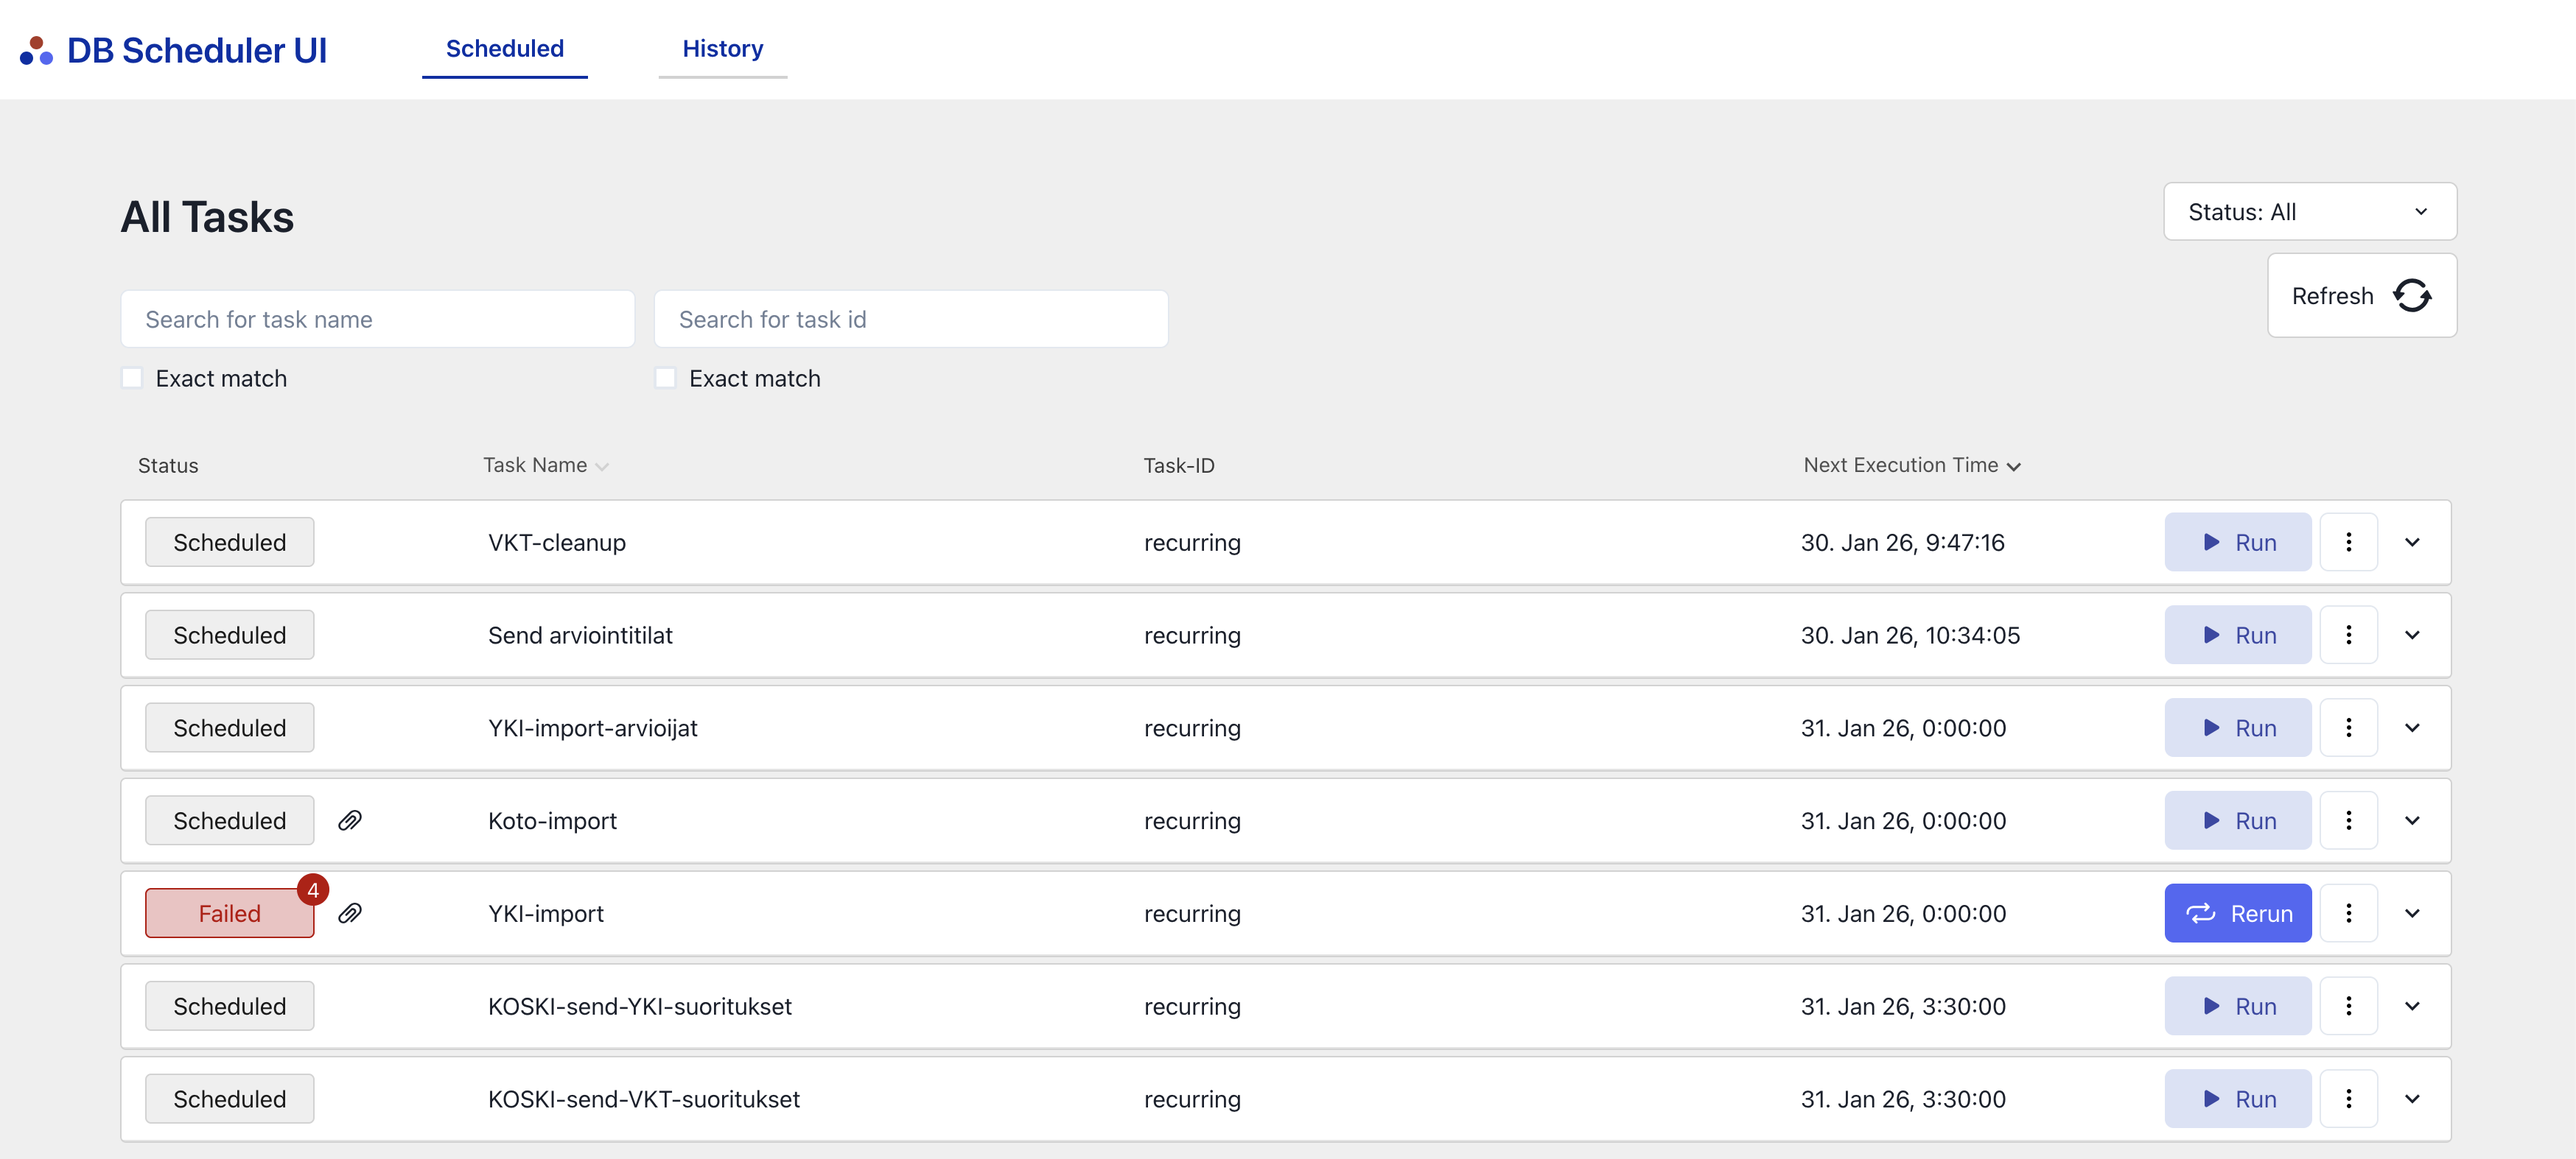
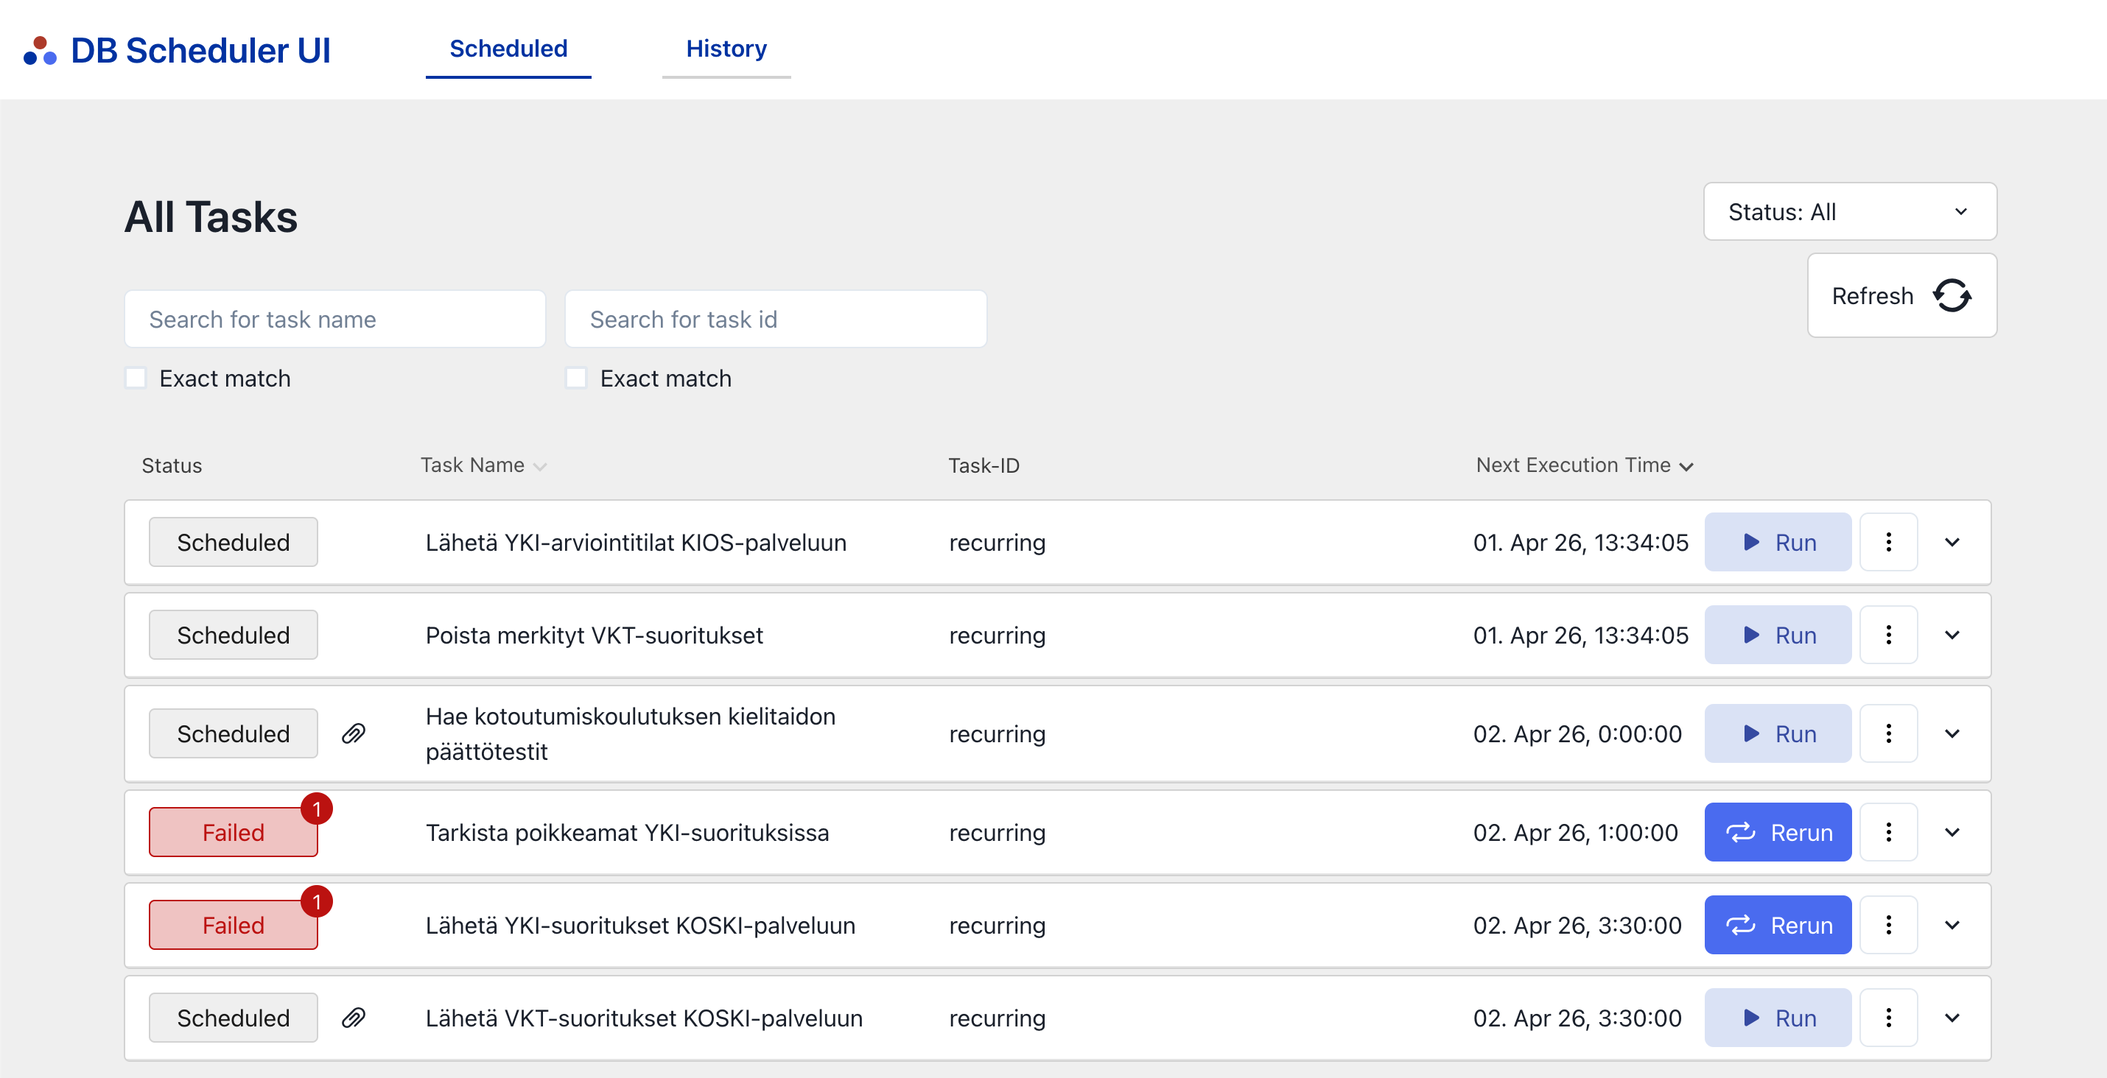
Päivitä db-scheduler-dokumentaatio

diff --git a/docs/db-scheduler/README.md b/docs/db-scheduler/README.md
@@ -15,37 +15,33 @@ Eräajot voi käynnistää myös manuaalisesti ja niiden ajohistoriaa tarkastell
 
 ## Yleinen kielitutkinto
 
-### KOSKI-send-YKI-suoritukset
+### Lähetä YKI-suoritukset KOSKI-palveluun
 
 Lähettää KOSKI-järjestelmään ne yleisen kielitutkinnon suoritukset, joita ei ole aiemmin siirretty onnistuneesti.
 
-### Send arviointitilat
+### Lähetä YKI-arviointitilat KIOS-palveluun
 
 Lähettää ilmoittautumisjärjestelmään (KIOS) sellaiset yleisen kielitutkinnon arviointitilat, joita ei aiemmin ole
 saatu siirrettyä (esim. verkko- tai palvelinvian takia). Tavallisesti arviointitila lähetetään jo siinä yhteydessä
 kun Solki-järjestelmästä saadaan uutta dataa. Tämän ajon tarkoitus on varmistaa tiedon perille pääsy.
 
-### YKI-import
-
-**Poistumassa käytöstä.** Hakee yleisen kielitutkinnon suoritukset Solki-järjestelmästä ja tallentaa ne Kielitutkintorekisteriin.
-
-### YKI-import-arvioijat
-
-**Poistuu käytöstä.** Hakee yleisen kielitutkinnon arvioijat Solki-järjestelmästä ja tallentaa ne Kielitutkintorekisteriin.
-
 ## Valtionhallinnon kielitutkinnot
 
-### KOSKI-send-VKT-suoritukset
+### Lähetä VKT-suoritukset KOSKI-palveluun
 
 Lähettää KOSKI-järjestelmään ne valtionhallinnon kielitutkinnon suoritukset, joita ei ole aiemmin siirretty onnistuneesti.
 
-### VKT Cleanup
+### Poista merkityt VKT-suoritukset
 
 Poistaa erinomaisen taitotason vkt-suorituksien osakokeet, jotka on merkitty poistettavaksi ja joiden retentioaika on täyttynyt.
 Poistoaika vaihtelee ympäristöittäin.
 
 ## Kotoutumiskoulutus
 
-### Koto-import
+### Hae kotoutumiskoulutuksen kielitaidon päättötestit
 
 Hakee koto-koulutukset ja tallentaa ne Kielitutkintorekisteriin.
+
+### Kotoutumiskoulutuksen kielitaidon tehtäväpankin lataus
+
+Lataa tehtäväpankin varmuuskopion ja tallentaa S3-bucketiin.
